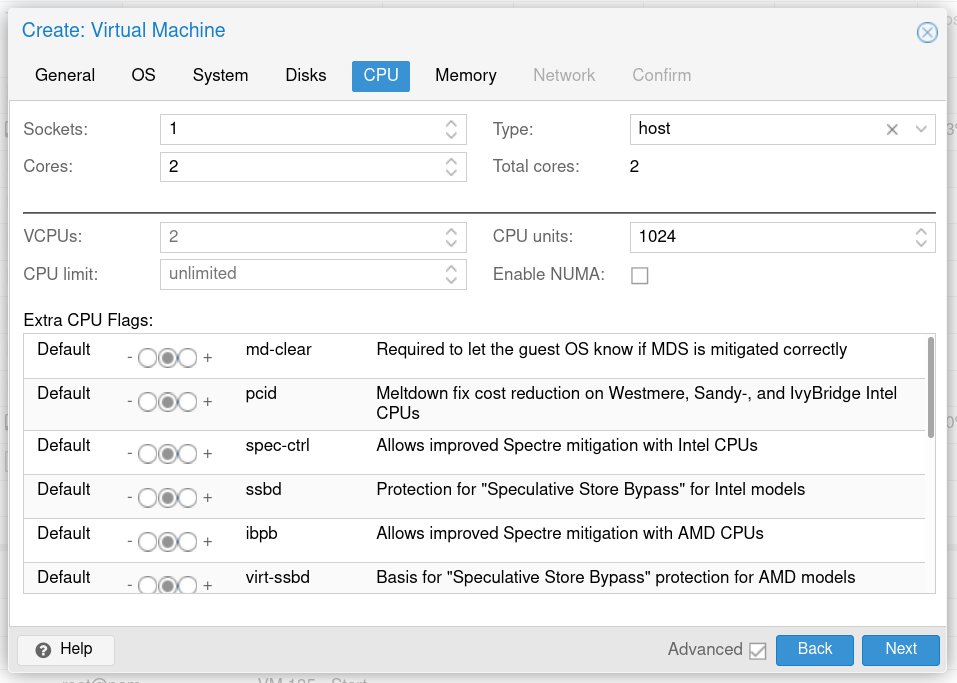
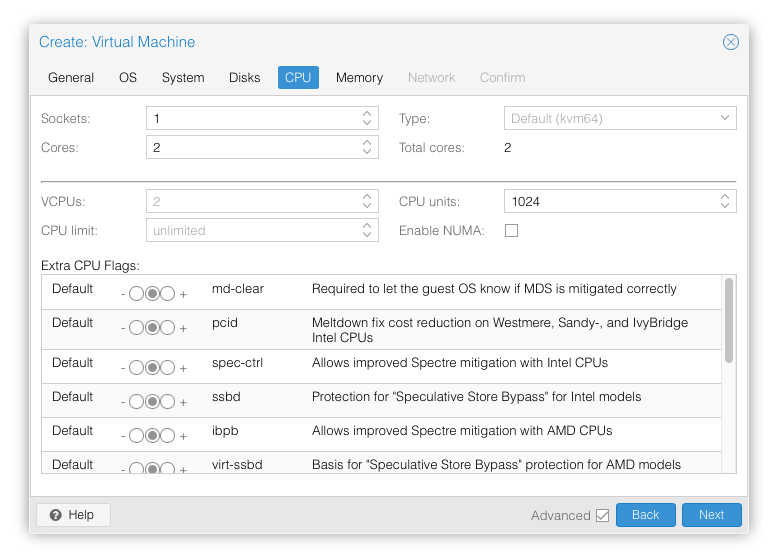
docs: update the Proxmox `kvm64` note
These settings enable `x86-64-v2` while keeping the VM migration option.

diff --git a/website/content/v1.0/talos-guides/install/virtualized-platforms/proxmox.md b/website/content/v1.0/talos-guides/install/virtualized-platforms/proxmox.md
@@ -1,7 +1,7 @@
 ---
 title: Proxmox
 description: "Creating Talos Kubernetes cluster using Proxmox."
-aliases: 
+aliases:
   - ../../../virtualized-platforms/proxmox
 ---
 
@@ -86,8 +86,18 @@ Keep the defaults in the "Hard Disk" tab as well, only changing the size if desi
 
 In the "CPU" section, give at least 2 cores to the VM:
 
-> Note: As of Talos v1.0 it will be unable to boot on the default Processor Type "kvm64".
-> Talos v1.0 requires the x86-64-v2 microarchitecture, which you may be able to provide by setting Processor Type to "host".
+> Note: As of Talos v1.0 (which requires the x86-64-v2 microarchitecture), booting
+> with the default Processor Type `kvm64` will not work.
+> You can enable the required
+> CPU features after creating the VM by adding the following line in the corresponding
+> `/etc/pve/qemu-server/<vmid>.conf` file:
+>
+> ```text
+> args: -cpu kvm64,+cx16,+lahf_lm,+popcnt,+sse3,+ssse3,+sse4.1,+sse4.2
+> ```
+>
+> Alternatively, you can set the Processor Type to `host` if your Proxmox host supports
+> these CPU features, this however prevents using live VM migration.
 
 <img src="/images/proxmox-guide/edit-cpu.png" width="500px">
 

diff --git a/website/content/v1.1/talos-guides/install/virtualized-platforms/proxmox.md b/website/content/v1.1/talos-guides/install/virtualized-platforms/proxmox.md
@@ -1,7 +1,7 @@
 ---
 title: Proxmox
 description: "Creating Talos Kubernetes cluster using Proxmox."
-aliases: 
+aliases:
   - ../../../virtualized-platforms/proxmox
 ---
 
@@ -86,8 +86,18 @@ Keep the defaults in the "Hard Disk" tab as well, only changing the size if desi
 
 In the "CPU" section, give at least 2 cores to the VM:
 
-> Note: As of Talos v1.0 it will be unable to boot on the default Processor Type "kvm64".
-> Talos v1.0 requires the x86-64-v2 microarchitecture, which you may be able to provide by setting Processor Type to "host".
+> Note: As of Talos v1.0 (which requires the x86-64-v2 microarchitecture), booting
+> with the default Processor Type `kvm64` will not work.
+> You can enable the required
+> CPU features after creating the VM by adding the following line in the corresponding
+> `/etc/pve/qemu-server/<vmid>.conf` file:
+>
+> ```text
+> args: -cpu kvm64,+cx16,+lahf_lm,+popcnt,+sse3,+ssse3,+sse4.1,+sse4.2
+> ```
+>
+> Alternatively, you can set the Processor Type to `host` if your Proxmox host supports
+> these CPU features, this however prevents using live VM migration.
 
 <img src="/images/proxmox-guide/edit-cpu.png" width="500px">
 

diff --git a/website/content/v1.2/talos-guides/install/virtualized-platforms/proxmox.md b/website/content/v1.2/talos-guides/install/virtualized-platforms/proxmox.md
@@ -1,7 +1,7 @@
 ---
 title: Proxmox
 description: "Creating Talos Kubernetes cluster using Proxmox."
-aliases: 
+aliases:
   - ../../../virtualized-platforms/proxmox
 ---
 
@@ -86,8 +86,18 @@ Keep the defaults in the "Hard Disk" tab as well, only changing the size if desi
 
 In the "CPU" section, give at least 2 cores to the VM:
 
-> Note: As of Talos v1.0 it will be unable to boot on the default Processor Type "kvm64".
-> Talos v1.0 requires the x86-64-v2 microarchitecture, which you may be able to provide by setting Processor Type to "host".
+> Note: As of Talos v1.0 (which requires the x86-64-v2 microarchitecture), booting
+> with the default Processor Type `kvm64` will not work.
+> You can enable the required
+> CPU features after creating the VM by adding the following line in the corresponding
+> `/etc/pve/qemu-server/<vmid>.conf` file:
+>
+> ```text
+> args: -cpu kvm64,+cx16,+lahf_lm,+popcnt,+sse3,+ssse3,+sse4.1,+sse4.2
+> ```
+>
+> Alternatively, you can set the Processor Type to `host` if your Proxmox host supports
+> these CPU features, this however prevents using live VM migration.
 
 <img src="/images/proxmox-guide/edit-cpu.png" width="500px">
 
